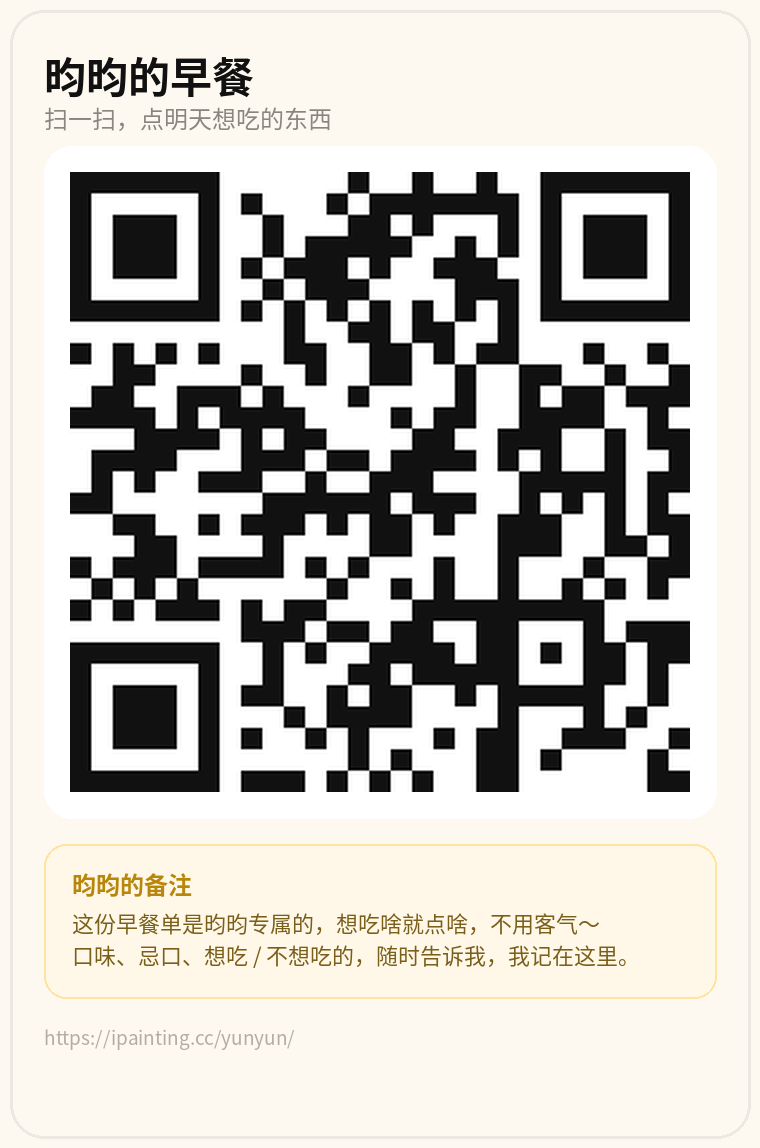
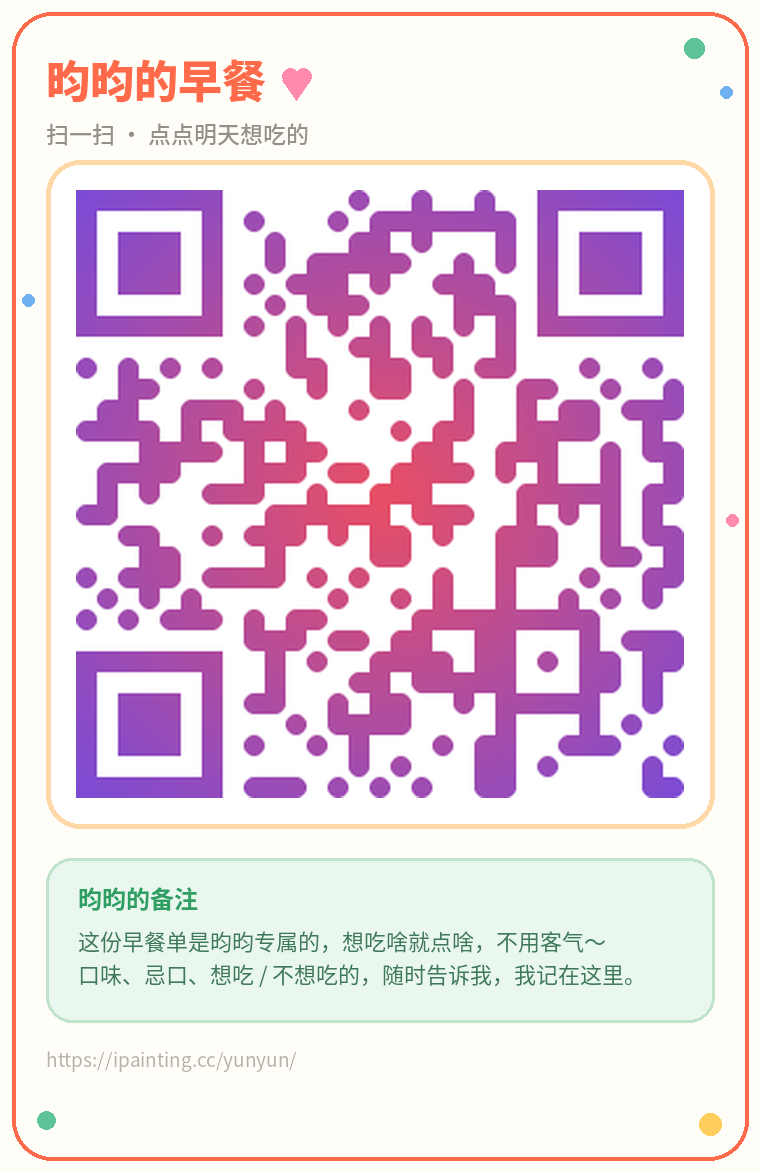
feat(yunyun): 去掉说明区块；二维码改童趣风（渐变圆角+糖果色边）

diff --git a/yunyun-order/index.html b/yunyun-order/index.html
@@ -38,18 +38,8 @@
     padding:7px 12px;font-size:12.5px;font-weight:600;color:var(--ink);cursor:pointer;white-space:nowrap;}
   .hdr-btns button:active{transform:scale(.96);}
 
-  /* ---------- 说明卡片 ---------- */
-  .guide{margin:14px 0 0;background:#fff;border-radius:var(--radius);box-shadow:var(--shadow);
-    padding:14px 16px;cursor:pointer;}
-  .guide .g-head{display:flex;align-items:center;gap:8px;font-size:14.5px;font-weight:800;}
-  .guide .g-head .arrow{margin-left:auto;font-size:12px;color:var(--muted);transition:.2s;}
-  .guide.open .g-head .arrow{transform:rotate(180deg);}
-  .guide .g-body{display:none;margin-top:10px;}
-  .guide.open .g-body{display:block;}
-  .guide ul{margin:0;padding-left:18px;}
-  .guide li{font-size:13px;line-height:1.75;color:#4a4641;}
-  .guide li b{color:var(--ink);}
-  .note{margin-top:12px;background:#fff8e8;border:1px solid #ffe3a3;border-radius:14px;padding:12px 14px;}
+  /* ---------- 备注便签 ---------- */
+  .note{margin-top:14px;background:#fff8e8;border:1px solid #ffe3a3;border-radius:14px;padding:12px 14px;}
   .note .n-t{font-size:13px;font-weight:800;color:#b8860b;margin-bottom:5px;}
   .note .n-c{font-size:13px;line-height:1.7;color:#7a5f1a;}
   .note .n-c .k{color:#111;font-weight:700;}
@@ -325,21 +315,9 @@
     </div>
     <div id="todayBox" class="today-box" style="display:none"></div>
 
-    <div class="guide" id="guide">
-      <div class="g-head">📌 说明 <span class="arrow">▾</span></div>
-      <div class="g-body">
-        <ul>
-          <li>先在名字框写上<b>你是谁</b>，再点想吃的东西 🍽</li>
-          <li>每样可以 <b>➕ / ➖</b> 改份数；菜单里没有的，点「其他」自己写</li>
-          <li>选好点底部 <b>「就吃这些啦」</b>，第二天早上就按单准备</li>
-          <li>点错了别慌，再点一次自己的名字可以 <b>修改 / 取消</b></li>
-          <li>每天 <b>21:00 前</b> 选好最稳妥，太晚了就只能看着流口水啦 😋</li>
-        </ul>
-        <div class="note">
-          <div class="n-t">📝 昀昀的备注</div>
-          <div class="n-c" id="yyNote">这份早餐单是<b>昀昀专属</b>的，想吃啥就点啥，不用客气～口味、忌口、想吃/不想吃的，随时告诉我，我记在这里 ✍</div>
-        </div>
-      </div>
+    <div class="note">
+      <div class="n-t">📝 昀昀的备注</div>
+      <div class="n-c" id="yyNote">这份早餐单是<b>昀昀专属</b>的，想吃啥就点啥，不用客气～口味、忌口、想吃/不想吃的，随时告诉我，我记在这里 ✍</div>
     </div>
   </header>
 
@@ -419,19 +397,6 @@
 const API = location.pathname.startsWith('/yunyun') ? (location.origin + '/yunyun') : (location.pathname.startsWith('/breakfast') ? (location.origin + '/breakfast') : location.origin);
 let MENU = null;
 let CART = {};   // id -> qty
-
-/* ===== 说明卡片：默认展开，点标题可收起（记住状态） ===== */
-(function(){
-  const g=document.getElementById('guide');
-  if(!g) return;
-  const KEY='yy_guide_open';
-  const saved=localStorage.getItem(KEY);
-  if(saved===null || saved==='1') g.classList.add('open');
-  g.addEventListener('click',()=>{
-    g.classList.toggle('open');
-    localStorage.setItem(KEY, g.classList.contains('open')?'1':'0');
-  });
-})();
 
 function toast(msg){
   const t=document.getElementById('toast');

diff --git a/yunyun-order/make_qr_card.py b/yunyun-order/make_qr_card.py
@@ -1,11 +1,15 @@
 #!/usr/bin/env python3
 # -*- coding: utf-8 -*-
-"""生成「昀昀的早餐」二维码卡片（二维码 + 说明 + 备注）"""
+"""生成「昀昀的早餐」童趣风二维码卡片（二维码 + 备注）"""
 import sys
+import math
 import qrcode
+from qrcode.image.styledpil import StyledPilImage
+from qrcode.image.styles.moduledrawers.pil import RoundedModuleDrawer
+from qrcode.image.styles.colormasks import RadialGradiantColorMask
 from PIL import Image, ImageDraw, ImageFont
 
-URL = sys.argv[1] if len(sys.argv) > 1 else "http://43.159.52.61/yunyun/"
+URL = sys.argv[1] if len(sys.argv) > 1 else "https://ipainting.cc/yunyun/"
 OUT = sys.argv[2] if len(sys.argv) > 2 else "/root/.openclaw/workspace/yunyun-order/yunyun-qr.png"
 NOTE = sys.argv[3] if len(sys.argv) > 3 else (
     "这份早餐单是昀昀专属的，想吃啥就点啥，不用客气～\n"
@@ -17,17 +21,17 @@ def font(size, weight="Regular"):
     return ImageFont.truetype(FONT % weight, size, index=2)  # index 2 = SC
 
 W = 760
-BG = (253, 248, 240)
-INK = (17, 17, 17)
-MUTED = (138, 133, 128)
-ACCENT = (242, 106, 26)
-NOTE_BG = (255, 248, 232)
-NOTE_LINE = (255, 227, 163)
-NOTE_T = (184, 134, 11)
-NOTE_C = (122, 95, 26)
+BG = (255, 253, 247)
+INK = (58, 50, 46)
+MUTED = (150, 143, 136)
+ORANGE = (255, 107, 74)
+PINK = (255, 138, 174)
+MINT = (94, 196, 152)
+SKY = (110, 176, 240)
+YELLOW = (255, 205, 92)
 
-f_title = font(42, "Bold")
-f_sub = font(24, "Regular")
+f_title = font(44, "Black")
+f_sub = font(23, "Medium")
 f_note_t = font(24, "Bold")
 f_note = font(22, "Regular")
 f_url = font(19, "Regular")
@@ -40,54 +44,78 @@ def wrap(draw, text, fnt, max_w):
             if draw.textlength(cur + ch, font=fnt) <= max_w:
                 cur += ch
             else:
-                lines.append(cur)
-                cur = ch
+                lines.append(cur); cur = ch
         lines.append(cur)
     return lines
 
-# 先算高度
-pad = 44
+pad = 46
 qr_box = W - pad * 2
 note_w = W - pad * 2
 tmp = Image.new("RGB", (10, 10))
 d0 = ImageDraw.Draw(tmp)
-note_lines = wrap(d0, NOTE, f_note, note_w - 56)
-note_h = 56 + 34 + len(note_lines) * 32
-H = pad + 56 + 40 + 40 + qr_box + 30 + note_h + 34 + 34 + pad
+note_lines = wrap(d0, NOTE, f_note, note_w - 64)
+note_h = 64 + 34 + len(note_lines) * 33
+H = pad + 70 + 42 + 44 + qr_box + 32 + note_h + 30 + 30 + pad
 
 img = Image.new("RGB", (W, H), BG)
 d = ImageDraw.Draw(img)
-# 外框
-d.rounded_rectangle([10, 10, W - 10, H - 10], radius=34, outline=(236, 233, 227), width=3)
+
+# 童趣底纹：四角彩色圆点
+def dot(x, y, r, color):
+    d.ellipse([x - r, y - r, x + r, y + r], fill=color)
+
+for (x, y, r, c) in [
+    (W - 66, 48, 10, MINT), (W - 34, 92, 6, SKY),
+    (28, 300, 6, SKY), (W - 28, 520, 6, PINK),
+    (46, H - 52, 9, MINT), (W - 50, H - 48, 11, YELLOW),
+]:
+    dot(x, y, r, c)
+
+# 圆角边框（糖果色）
+d.rounded_rectangle([12, 12, W - 12, H - 12], radius=40, outline=ORANGE, width=4)
 
 y = pad
-d.text((pad, y), "昀昀的早餐", font=f_title, fill=INK)
-y += 56
-d.text((pad, y), "扫一扫，点明天想吃的东西", font=f_sub, fill=MUTED)
-y += 46
+d.text((pad, y), "昀昀的早餐", font=f_title, fill=ORANGE)
+# 标题旁小爱心
+hx, hy = pad + d.textlength("昀昀的早餐", font=f_title) + 16, y + 22
+d.ellipse([hx, hy, hx + 16, hy + 16], fill=PINK)
+d.ellipse([hx + 13, hy, hx + 29, hy + 16], fill=PINK)
+d.polygon([(hx, hy + 12), (hx + 28, hy + 12), (hx + 14, hy + 32)], fill=PINK)
+y += 70
+d.text((pad, y), "扫一扫 · 点点明天想吃的", font=f_sub, fill=MUTED)
+y += 44
 
 # 二维码白卡
-card_pad = 26
-d.rounded_rectangle([pad, y, pad + qr_box, y + qr_box], radius=28, fill=(255, 255, 255))
+d.rounded_rectangle([pad, y, pad + qr_box, y + qr_box], radius=34, fill=(255, 255, 255),
+                    outline=(255, 216, 168), width=5)
 qr = qrcode.QRCode(error_correction=qrcode.constants.ERROR_CORRECT_M, box_size=10, border=0)
 qr.add_data(URL)
 qr.make(fit=True)
-qimg = qr.make_image(fill_color=(17, 17, 17), back_color=(255, 255, 255)).convert("RGB")
-inner = qr_box - card_pad * 2
+qimg = qr.make_image(
+    image_factory=StyledPilImage,
+    module_drawer=RoundedModuleDrawer(),
+    color_mask=RadialGradiantColorMask(
+        back_color=(255, 255, 255),
+        center_color=(233, 79, 100),
+        edge_color=(123, 75, 214),
+    ),
+).convert("RGB")
+inner = qr_box - 60
 qimg = qimg.resize((inner, inner), Image.LANCZOS)
-img.paste(qimg, (pad + card_pad, y + card_pad))
-y += qr_box + 26
+img.paste(qimg, (pad + 30, y + 30))
+y += qr_box + 30
 
-# 备注便签
-d.rounded_rectangle([pad, y, pad + note_w, y + note_h], radius=22, fill=NOTE_BG, outline=NOTE_LINE, width=2)
-d.text((pad + 28, y + 22), "昀昀的备注", font=f_note_t, fill=NOTE_T)
-ty = y + 62
+# 备注便签（薄荷绿）
+d.rounded_rectangle([pad, y, pad + note_w, y + note_h], radius=26, fill=(234, 247, 238),
+                    outline=(191, 227, 203), width=3)
+d.text((pad + 32, y + 22), "昀昀的备注", font=f_note_t, fill=(47, 158, 99))
+ty = y + 66
 for line in note_lines:
-    d.text((pad + 28, ty), line, font=f_note, fill=NOTE_C)
-    ty += 32
-y += note_h + 24
+    d.text((pad + 32, ty), line, font=f_note, fill=(64, 120, 90))
+    ty += 33
+y += note_h + 22
 
-d.text((pad, y), URL, font=f_url, fill=(178, 172, 164))
+d.text((pad, y), URL, font=f_url, fill=(186, 178, 170))
 
 img.save(OUT)
 print("已生成:", OUT, img.size)
